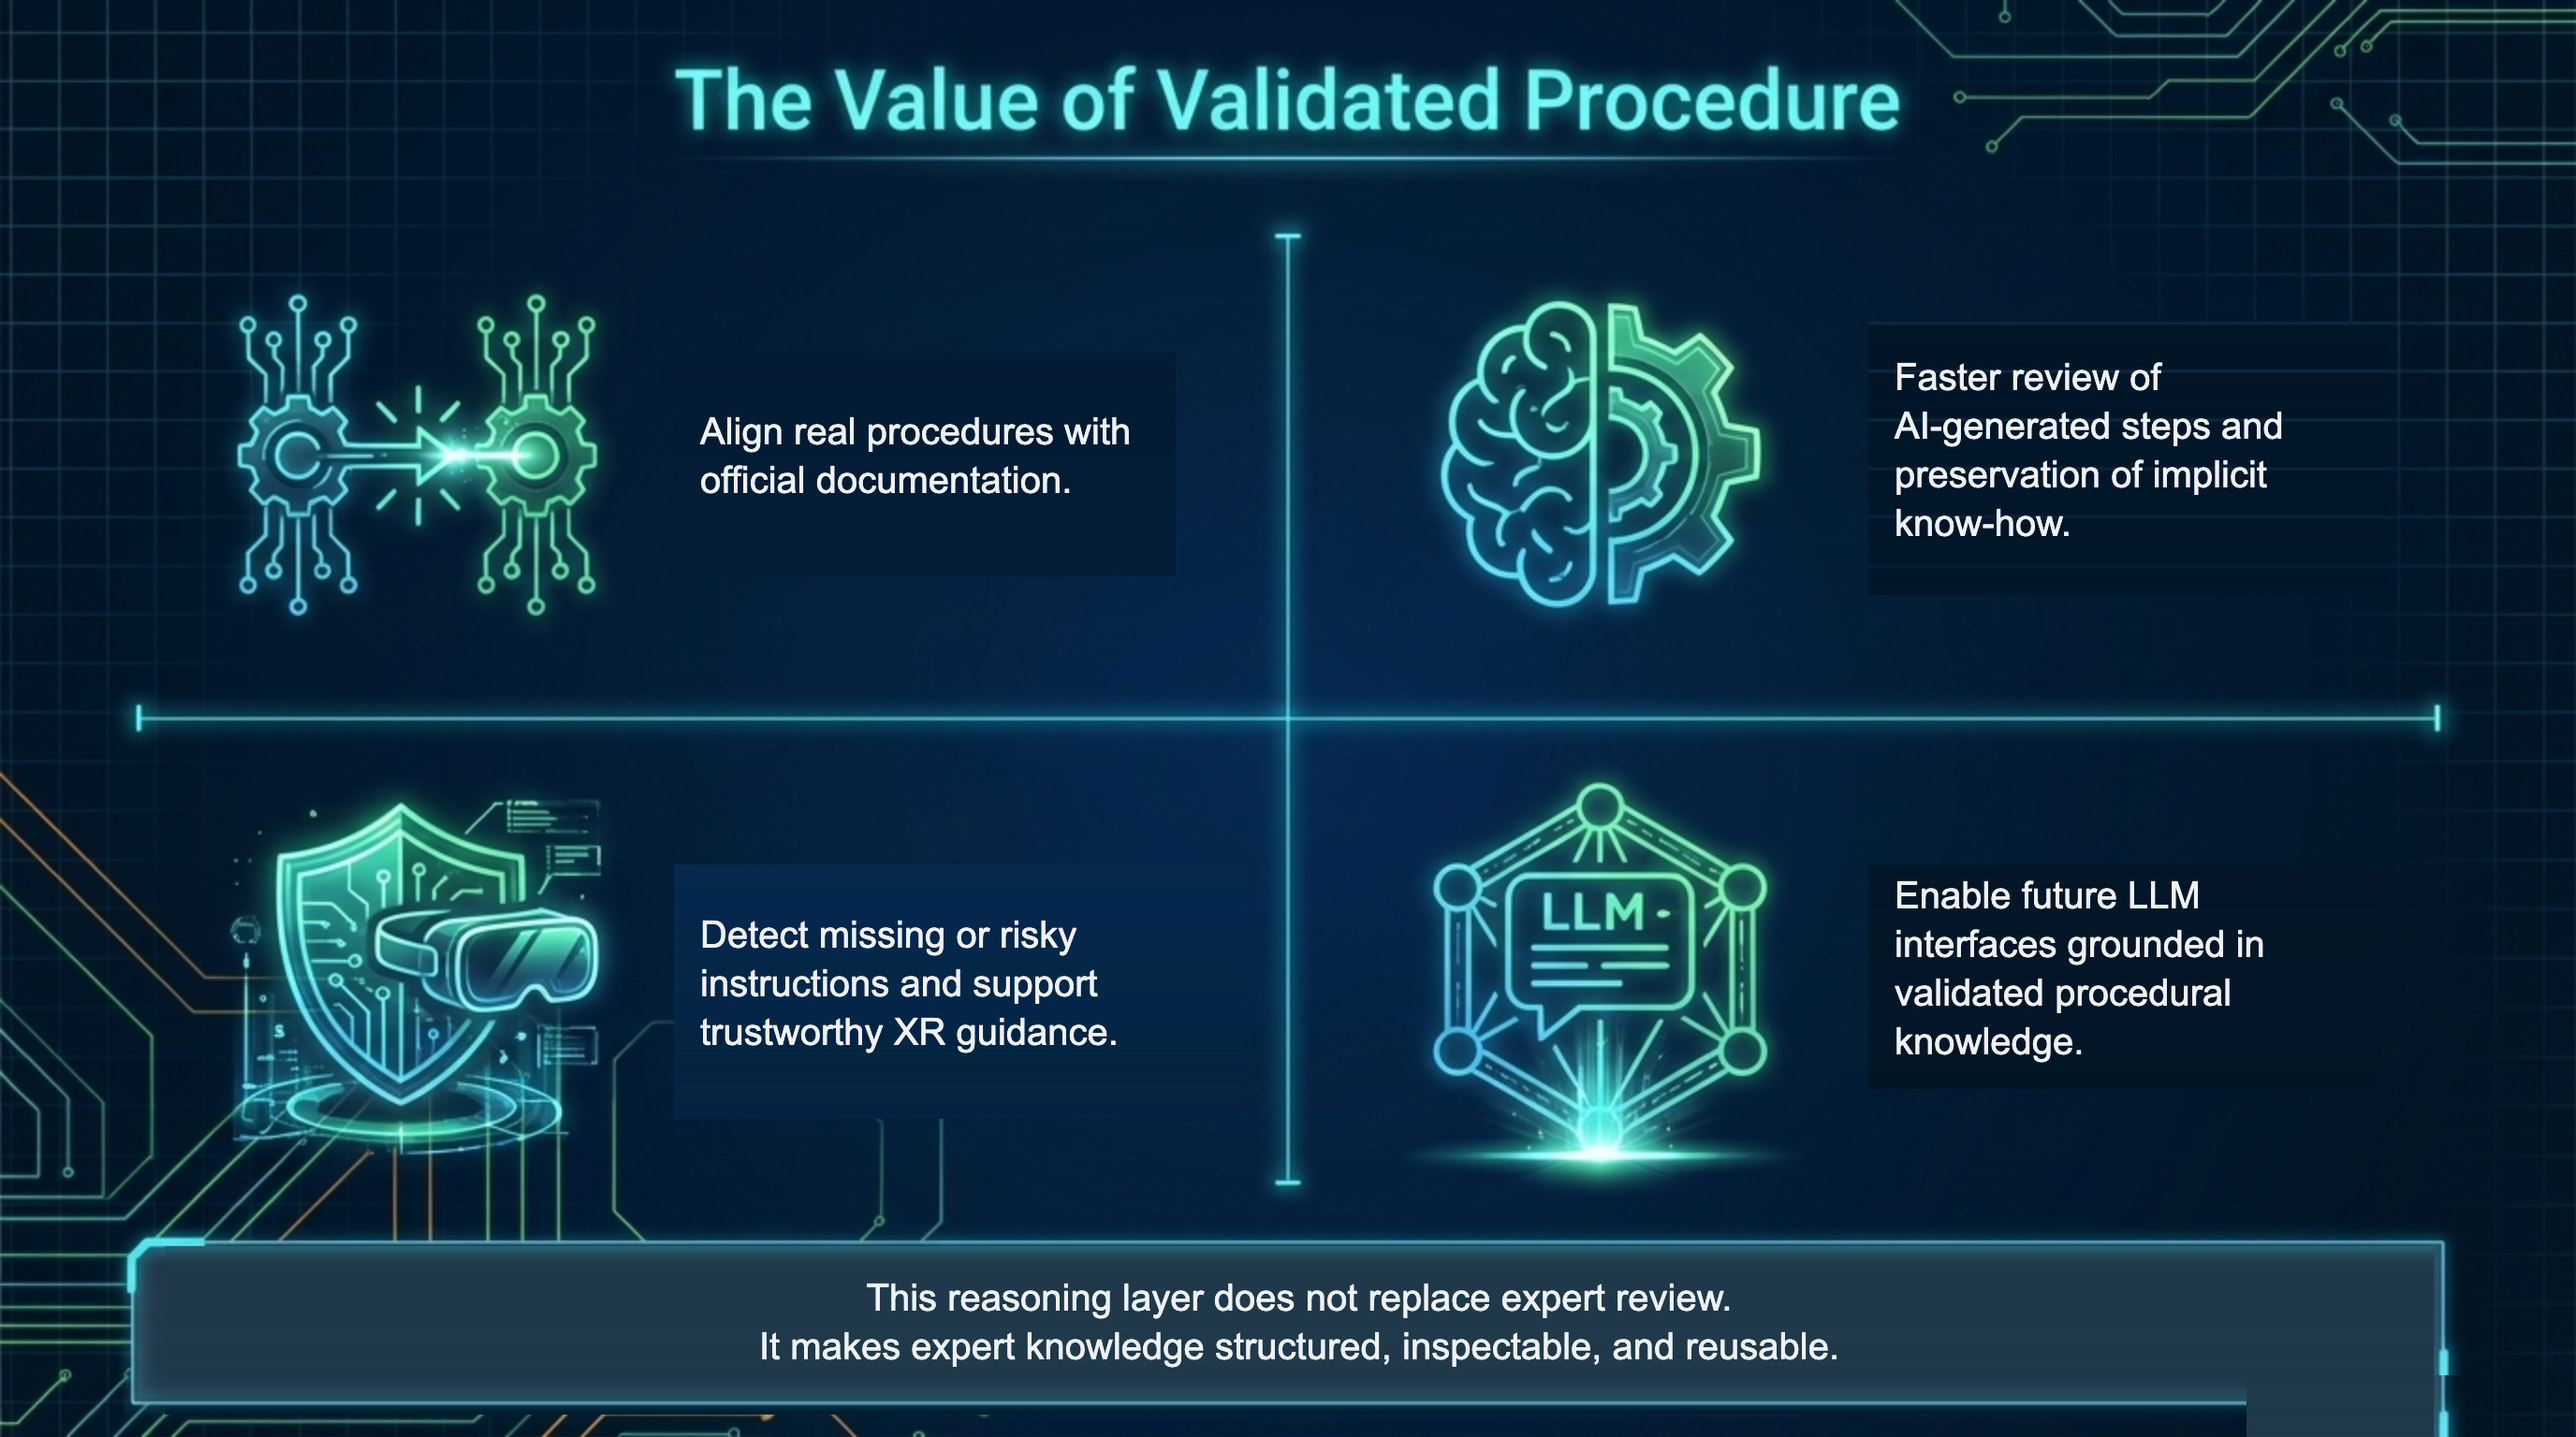
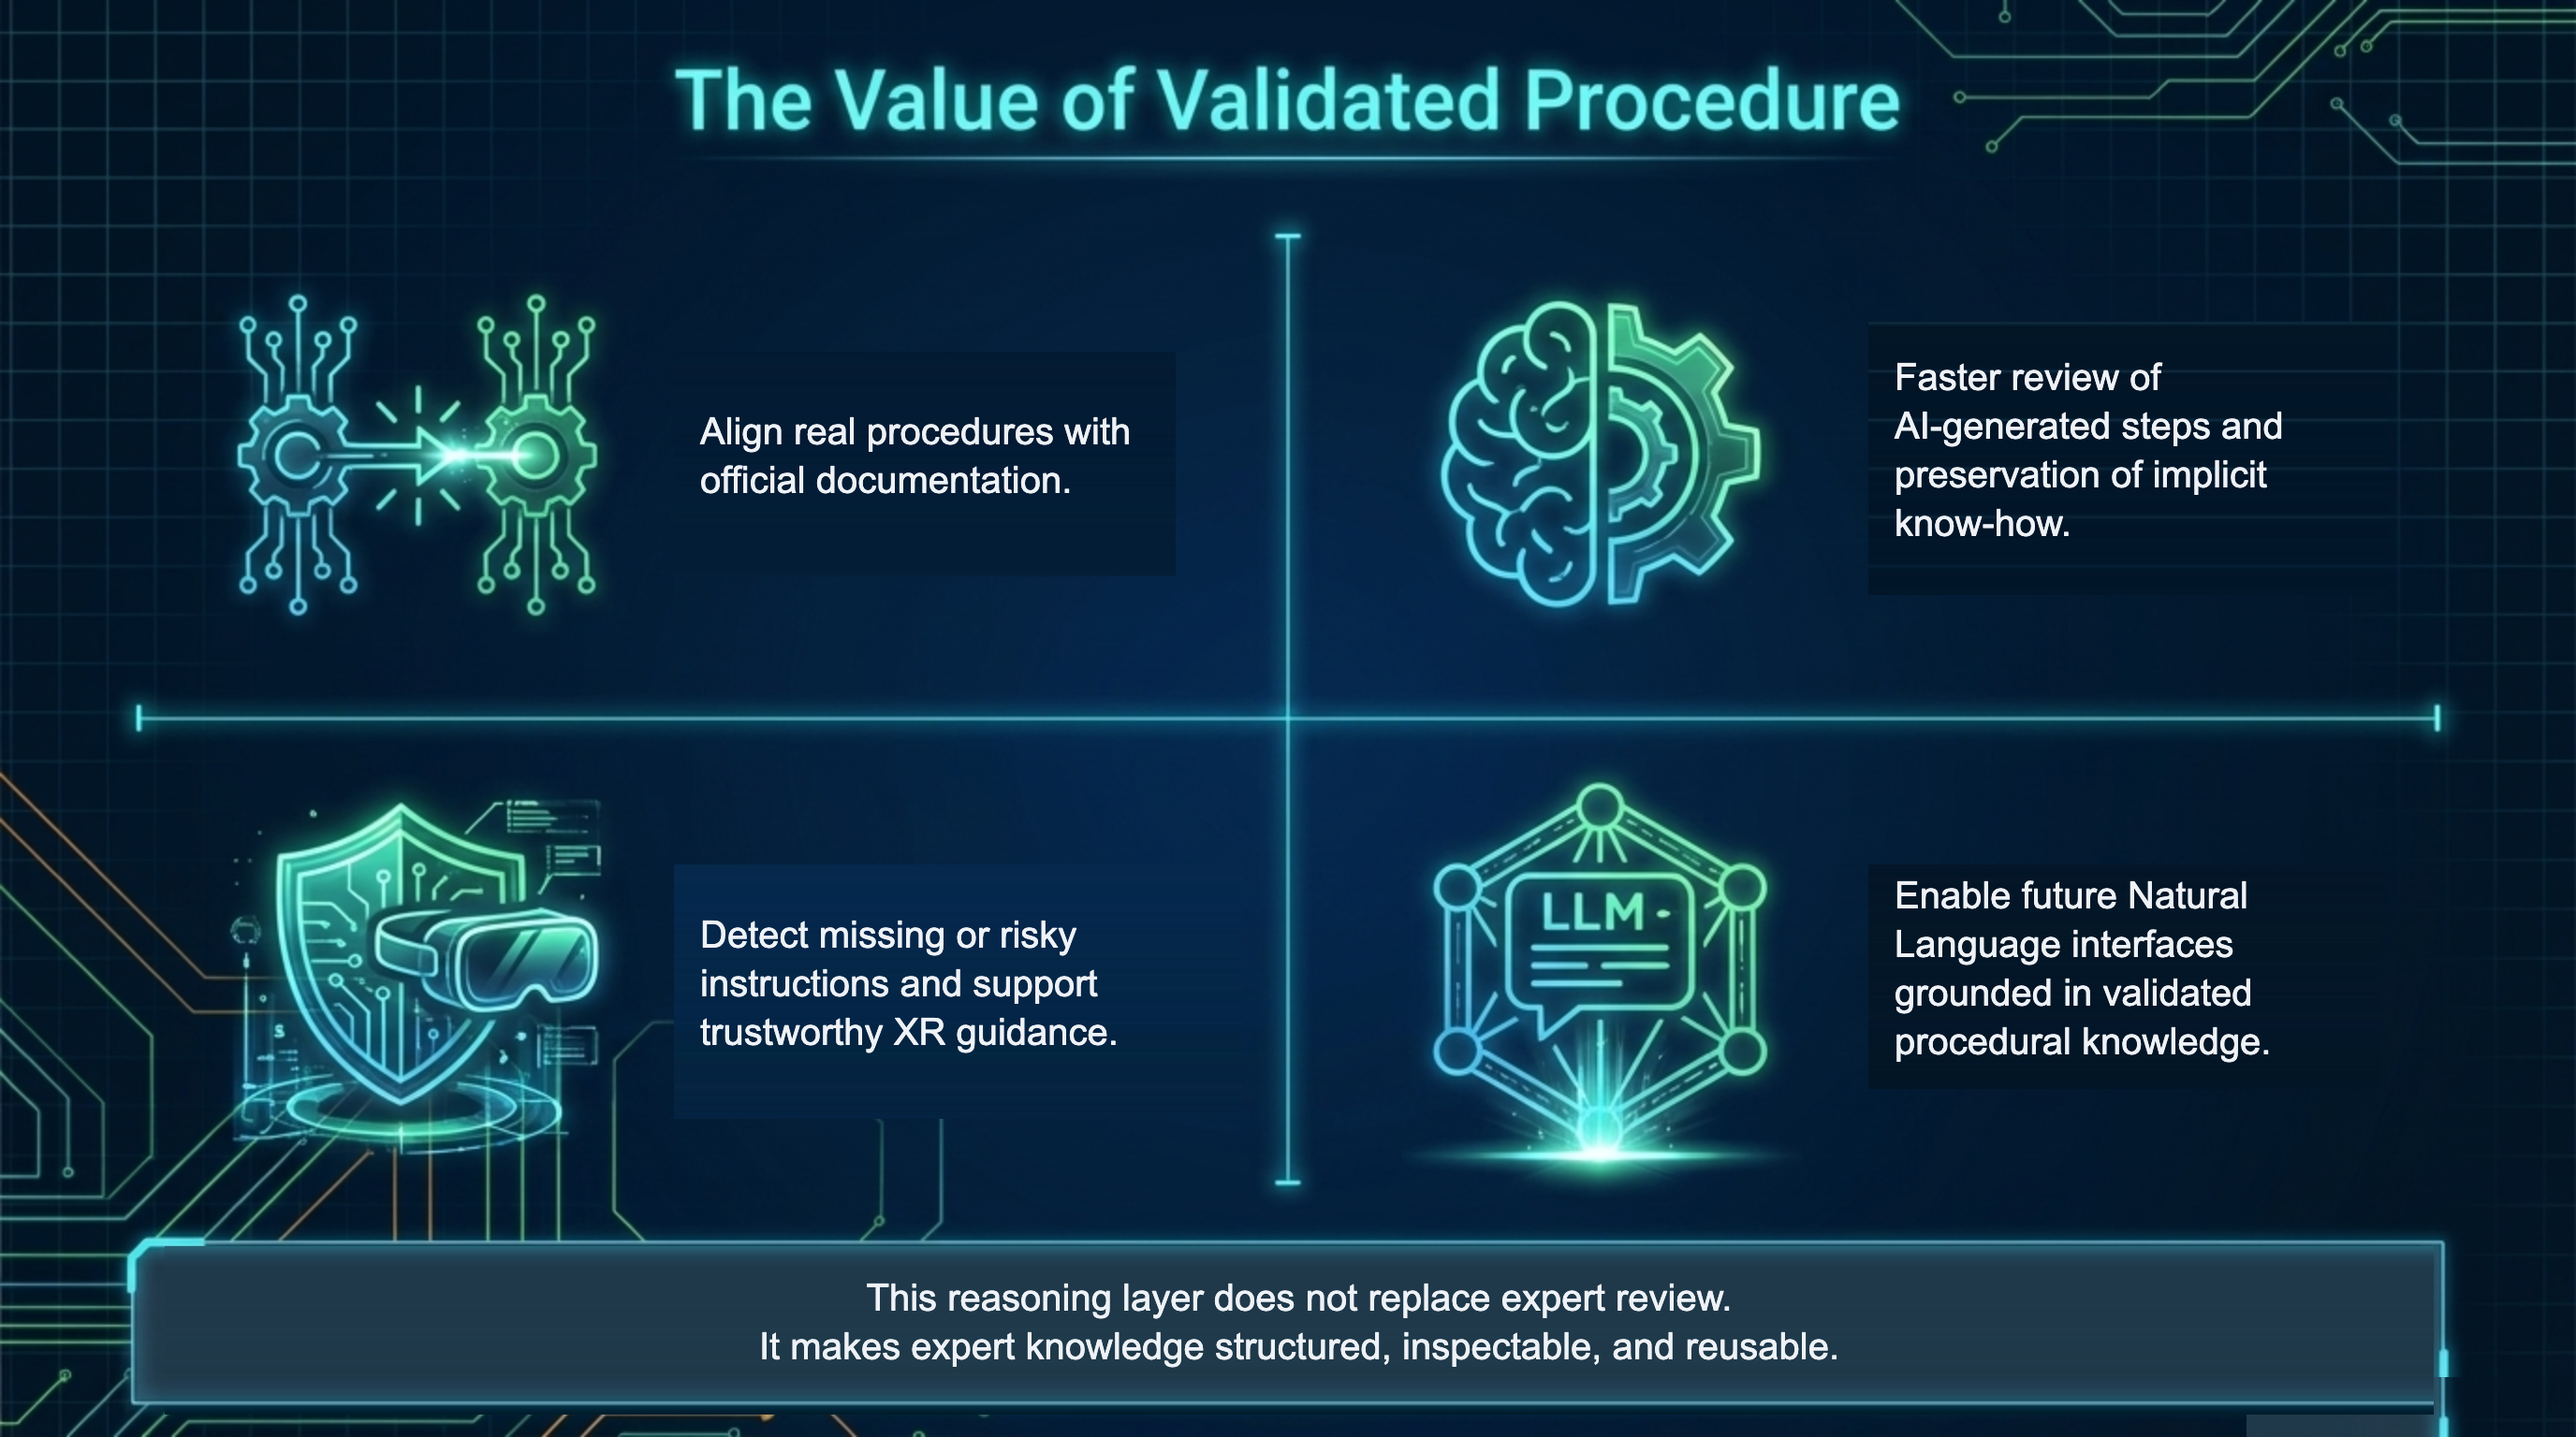
Deck: Natural Language wording, remove Constraint evidence slide, fullscreen hides rail

Changed region(s): [[0.7188, 0.5938, 0.875, 0.75], [0.875, 0.9688, 0.9688, 1.0]]

diff --git a/platform/Intro.html b/platform/Intro.html
@@ -1019,7 +1019,7 @@
 
         <div class="slide-foot">
           <div>Press <strong>Play</strong> in the embedded view to start the build.</div>
-          <div>06 / 13</div>
+          <div>06 / 12</div>
         </div>
       </div>
     </section>
@@ -1048,14 +1048,8 @@
       </div>
     </section>
 
-    <section data-label="10 Constraint evidence">
-      <div class="slide slide-eval">
-        <img src="assets/eval04_C.png" alt="Constraint evidence" />
-        <div class="caption">Constraint evidence</div>
-      </div>
-    </section>
-
-    <section data-label="11 Step dependencies">
+    
+        <section data-label="10 Step dependencies">
       <div class="slide slide-eval">
         <img src="assets/eval04_B.png" alt="Step dependencies" />
         <div class="caption">Step dependencies</div>
@@ -1065,7 +1059,7 @@
     <!-- ============================================================
          SLIDE 12 — PPTX slide 5, copy corrected via overlay (5 boxes)
          ============================================================ -->
-    <section data-label="12 Value of validated procedure">
+    <section data-label="11 Value of validated procedure">
       <div class="slide slide-fullbleed">
         <img src="assets/intro_slide5.png" alt="The Value of Validated Procedure" />
       </div>
@@ -1074,7 +1068,7 @@
     <!-- ============================================================
          SLIDE 13 — Operator Interface (embedded)
          ============================================================ -->
-    <section data-label="13 Operator interface">
+    <section data-label="12 Operator interface">
       <div class="slide slide-embed">
 
         <div class="slide-top">
@@ -1100,7 +1094,7 @@
 
         <div class="slide-foot">
           <div>Ask a question in the chat, or toggle <strong>Agent</strong> in the embedded topbar to talk.</div>
-          <div>13 / 13</div>
+          <div>12 / 12</div>
         </div>
       </div>
     </section>
@@ -1318,6 +1312,9 @@
     });
 
     // Fullscreen helper used by both the panel button and the F key.
+    // Also hides the deck's thumbnail rail while presenting (via the
+    // component's `no-rail` attribute) and restores it on exit, so a
+    // fullscreen presentation shows only the slide — not the slide list.
     function toggleFullscreen() {
       try {
         if (document.fullscreenElement || document.webkitFullscreenElement) {
@@ -1328,6 +1325,18 @@
         }
       } catch (e) { console.warn('Fullscreen failed:', e); }
     }
+
+    // Keep the rail in sync with fullscreen state regardless of how it was
+    // entered/exited (F key, panel button, or the browser's own Esc).
+    function syncRailToFullscreen() {
+      var deck = document.querySelector('deck-stage');
+      if (!deck) return;
+      var fs = !!(document.fullscreenElement || document.webkitFullscreenElement);
+      if (fs) deck.setAttribute('no-rail', '');
+      else deck.removeAttribute('no-rail');
+    }
+    document.addEventListener('fullscreenchange', syncRailToFullscreen);
+    document.addEventListener('webkitfullscreenchange', syncRailToFullscreen);
 
     // Keyboard shortcuts:
     //   F   — toggle fullscreen
